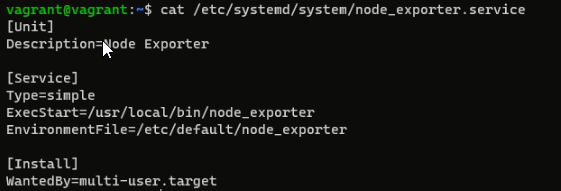
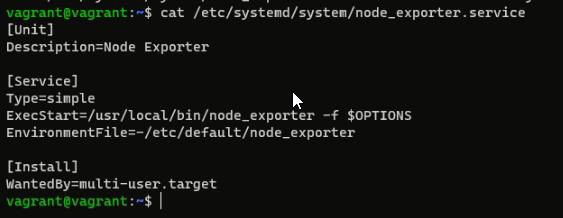
Выполнение домашнего задания к занятию 3.4 (исправление задания 1)

Changed region(s): [[0.0, 0.3403, 0.7576, 0.7068], [0.0, 0.0, 0.9394, 0.288], [0.0, 0.733, 0.3939, 1.0]]

diff --git a/homeworks/3.4. Операционные системы, лекция 2/readme.MD b/homeworks/3.4. Операционные системы, лекция 2/readme.MD
@@ -12,7 +12,7 @@
    Добавил службу в автозагрузку командой `sudo systemctl enable node_exporter.service`, перезагрузил виртуалку vagrant, проверил автозагрузку, остановку, запуск сервиса.  
    ![SNAG-0821.png](SNAG-0821.png)  
    
-   Опция из внешнего файла конфиурации `/etc/default/node_exporter` добавилась в переменные.  
+   Systemd будет подгружать переменные окружения при старте node_exporter из файла `/etc/default/node_exporter`, а параметры запуска искать в переменной OPTIONS.  
    ![SNAG-0822.png](SNAG-0822.png)  
    
 1. Пробросил порт 9100 на хостовую машину.  
